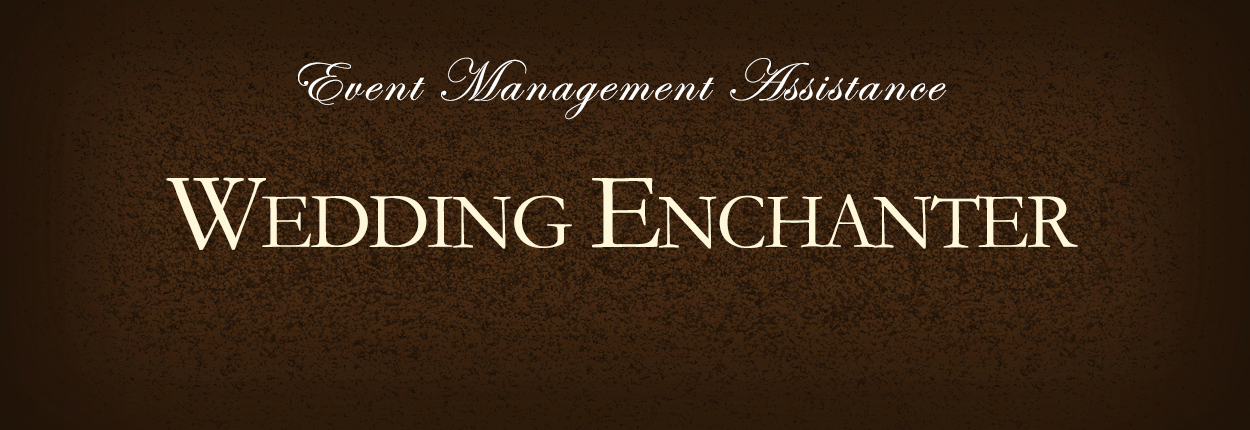
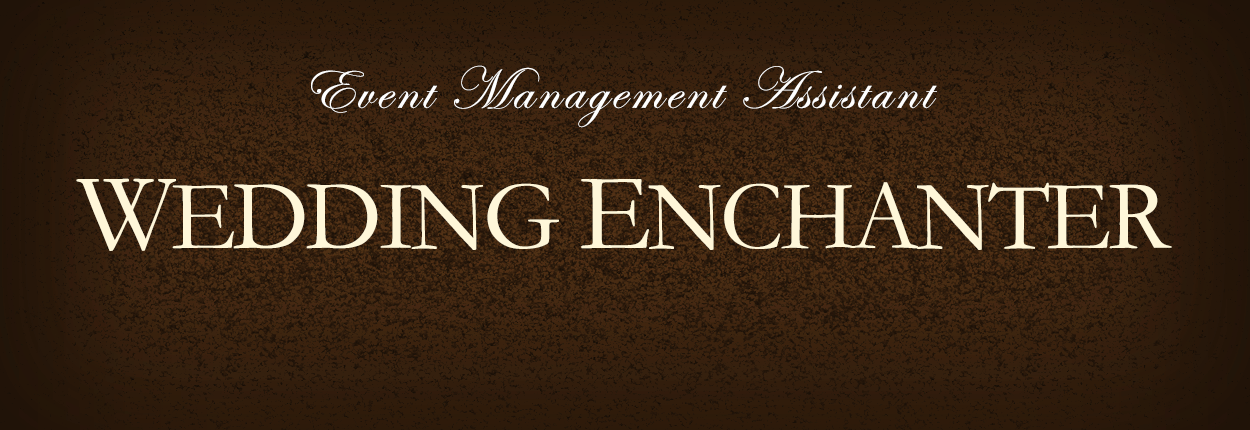
layout 80%

Changed region(s): [[0.0624, 0.393, 0.936, 0.6047], [0.2184, 0.1209, 0.78, 0.2721]]

diff --git a/app/assets/stylesheets/custom.css.scss b/app/assets/stylesheets/custom.css.scss
@@ -39,9 +39,12 @@ html {
 }
 body {
     margin-top: 30px;
-    margin-left: 225px;
+    margin-left: 200px;
     background-color: $evenLighterGrey;
+    
 }
+
+
 
 @media(min-width:768px) {
     body {
@@ -94,8 +97,8 @@ h1 {
   margin-bottom: 30px;
   text-align: center;
   color: $darkerGrey;
-  /*font-family: Perpetua;*/
-  font-family: Optima, Segoe, 'Segoe UI', Candara, Calibri, Arial, sans-serif;
+  font-family: "Tw Cen MT";
+  /*font-family: Optima, Segoe, 'Segoe UI', Candara, Calibri, Arial, sans-serif;*/
 }
 
 h2 {
@@ -105,8 +108,8 @@ h2 {
   text-align: center;
   font-weight: normal;
   color: $darkerGrey;
-  /*font-family: Perpetua;*/
-  font-family: Optima, Segoe, 'Segoe UI', Candara, Calibri, Arial, sans-serif;
+  font-family: "Tw Cen MT";
+  /*font-family: Optima, Segoe, 'Segoe UI', Candara, Calibri, Arial, sans-serif;*/
   /*font-family: 'Bodoni MT', Didot, 'Didot LT STD', 'Hoefler Text', Garamond, 'Times New Roman', serif;*/
 
 }
@@ -117,8 +120,8 @@ h3 {
   font-weight: normal;
   color: $grey;
   margin-bottom: 10px;
-  /*font-family: Perpetua;*/
-  font-family: Optima, Segoe, 'Segoe UI', Candara, Calibri, Arial, sans-serif;
+  font-family: "Tw Cen MT";
+  /*font-family: Optima, Segoe, 'Segoe UI', Candara, Calibri, Arial, sans-serif;*/
   /*font-family: 'Bodoni MT', Didot, 'Didot LT STD', 'Hoefler Text', Garamond, 'Times New Roman', serif;*/
 
 }
@@ -130,11 +133,11 @@ h4 {
   color: $grey;
   margin-bottom: 5px;
   line-height: 0.8;
-  /*font-family: Perpetua;*/
+  font-family: "Tw Cen MT";
   /*font-family: Optima, Segoe, 'Segoe UI', Candara, Calibri, Arial, sans-serif;*/
   /*font-family: 'Bodoni MT', Didot, 'Didot LT STD', 'Hoefler Text', Garamond, 'Times New Roman', serif;*/
-  font-family: Candara, Calibri, Segoe, 'Segoe UI', Optima, Arial, sans-serif;
-  
+  /*font-family: Candara, Calibri, Segoe, 'Segoe UI', Optima, Arial, sans-serif;*/
+  text-decoration: none
 }
 
 
@@ -144,6 +147,13 @@ p {
   line-height: 1.7em;
   /*font-family: 'Bodoni MT', Didot, 'Didot LT STD', 'Hoefler Text', Garamond, 'Times New Roman', serif;*/
 
+}
+
+.small{
+  font-size:  0.8em;
+}
+.full-width{
+  right: 0;
 }
 
 .line-divider{
@@ -156,19 +166,6 @@ p {
 
 /* header */
 
-/*#logo {
-  float: left;
-  padding-left: 20px;
-  font-size: 1.7em;
-  color:  #818181;
-  letter-spacing: -1px;
-  padding-top: 9px;
-  margin-right: 20px;
-  font-weight: bold;
-  line-height: 1;
-  font-family: 'Bodoni MT', Didot, 'Didot LT STD', 'Hoefler Text', Garamond, 'Times New Roman', serif;
-
-}*/
 
 #logo{
   margin:auto;
@@ -186,35 +183,6 @@ p {
 }
 
 
-.nav-header > li > a {
-  padding-top: 5px;
-  padding-bottom: 5px;
-  padding-left: 10px;
-  padding-right: 10px;
-  /*font-family: 'Bodoni MT', Didot, 'Didot LT STD', 'Hoefler Text', Garamond, 'Times New Roman', serif;*/
-  /*font-family: Perpetua;*/
-  font-family: Optima, Segoe, 'Segoe UI', Candara, Calibri, Arial, sans-serif;
-  font-size: 1.5em;
-  color:  gray;
-  /*border-radius: 2px;*/
-  margin-top: 25px;
-  margin-left:6px;
-  margin-right: 6px;
-
-    &:hover{
-    color:    #5F4C0B;
-    background-color: white;
-    
-  }
-}
-
-
-.navbar-custom {
-    background-color: white;
-    padding: 3px;
-    opacity: 0.92;
-    border-bottom: 1px $lightGrey solid;
-}
 
 .new-navbar-custom {
     background-color: $darkGrey;
@@ -263,7 +231,8 @@ p {
     }
 
     .side-menu>ul>li{
-      margin: 15px;
+      padding-top: 5px;
+      padding-bottom: 5px;
     }
 
     .side-menu>ul{
@@ -277,36 +246,50 @@ p {
         color: $gold;
         text-decoration: none;
     }
+    .side-menu ul>li>ul>li>a{
+        width: 225px;
+        font-family: "Tw Cen MT";
+        text-transform: uppercase;
+        color: $darkGrey;
+        font-size: 0.8em;
+        padding-top: 10px;
+        padding-bottom: 20px;
+        &:hover{
+          color: $softGold;
+        }
+    }
+    .side-menu ul>li>ul>li{
+      padding-top: 5px;
+      padding-bottom: 5px;
+      /*border-top: 1px $lightGrey solid ;*/
+      background-color: $softGrey;
+      &:hover{
+        background-color: $mediumGrey;
+        
+      }
+    }
+
+    .log-menu{
+      font-size: 1em;
+    }
+
+    .log-btn{
+      border: 1px $darkGrey solid;
+      color: $darkGrey;
+      padding: 3px;
+      width: 120px;
+      background-color: transparent;
+      font-family: "Tw Cen MT";
+      text-transform: uppercase;
+      &:hover{
+        /*border: 1px $gold solid;
+        color: $gold;*/
+        background-color: $darkGrey;
+        color: $lightGrey;
+      }
+    }
 }
 
-
-.side-nav>ul>li>ul>li>a:hover {
-    color: #fff;
-}
-
-.right-nav{
-  padding-right: 30px;
-  font-size: 0.8em;
-}
-
-#signin-btn{
-  border-style: solid ;
-  border-width: 1px;
-  border-color:   white;
-  &:hover{
-    border-color: #5F4C0B;
-    color: #5F4C0B
-  }
-
-}
-#signup-btn{
-  color: gray;
-  border: 1px gray solid;
-  &:hover{
-    background-color: $darkGold;
-  color: white;
-  }
-}
 
 /* footer */
 
@@ -343,8 +326,25 @@ footer ul li {
 }
 
 
+/* HOME */
+.heading-img{
+  width: 100%;
+}
+
 /* VENDORS*/
 
+#filter-block{
+  padding: 20px;
+  margin-bottom: 50px;
+  > div{
+    padding: 10px;
+    font-family: "Tw Cen MT";
+    text-transform: uppercase;
+    > ul>li{
+      text-transform: lowercase;
+    }
+  }
+}
 .filter-bar{
   border-top: 1px solid #EEEEEE;
   border-bottom: 1px solid #EEEEEE;
@@ -575,7 +575,7 @@ aside {
 }
 
 #home-block {
-  background-image: url(image-path('flower-bg-light.jpg'));
+  background-image: url(image-path('new_heading.png'));
   background-size: cover;
 
   &:hover {
@@ -987,8 +987,6 @@ div.hidden {
   background-color: $lightMint;
 }
 
-.container{
-}
 
 .gallery-thumb{
   background-color: white;
@@ -1046,4 +1044,33 @@ div.hidden {
   font-size: 0.4em;
   font-family: Candara, Calibri, Segoe, 'Segoe UI', Optima, Arial, sans-serif;
   
+}
+
+
+.category-block{
+  border: 1px $mediumGrey solid;
+  font-size: 2em;
+  padding: 20px;
+}
+
+
+.toggle {
+  font-family: "Tw Cen MT";
+
+}
+
+.toggle .label  {
+  color: $darkGrey;
+  font-size: 0.9em;
+    &:hover{
+      color: $gold;
+    }
+}
+
+.toggle label input {
+    display: none;
+}
+
+.label.input-checked /*, .bounds input:checked + span works for firefox and ie9 but breaks js for ie8(ONLY) */ {
+  color: $gold;
 }

diff --git a/app/controllers/shops_controller.rb b/app/controllers/shops_controller.rb
@@ -52,7 +52,7 @@ class ShopsController < ApplicationController
 
   def index
     @categories = Shop.category_counts
-      
+    
 
     @cat_title = "All Vendors"
     @c=""
@@ -92,7 +92,7 @@ class ShopsController < ApplicationController
       # @type = Shop.select(:shop_type).map(&:shop_type).uniq
       @shops = @q.result(distinct: true)
 
-    @styles = @shops.tag_counts_on(:styles)
+    @styles = @shops.style_counts
       # else
         # @shops = Shop.all
       # end
